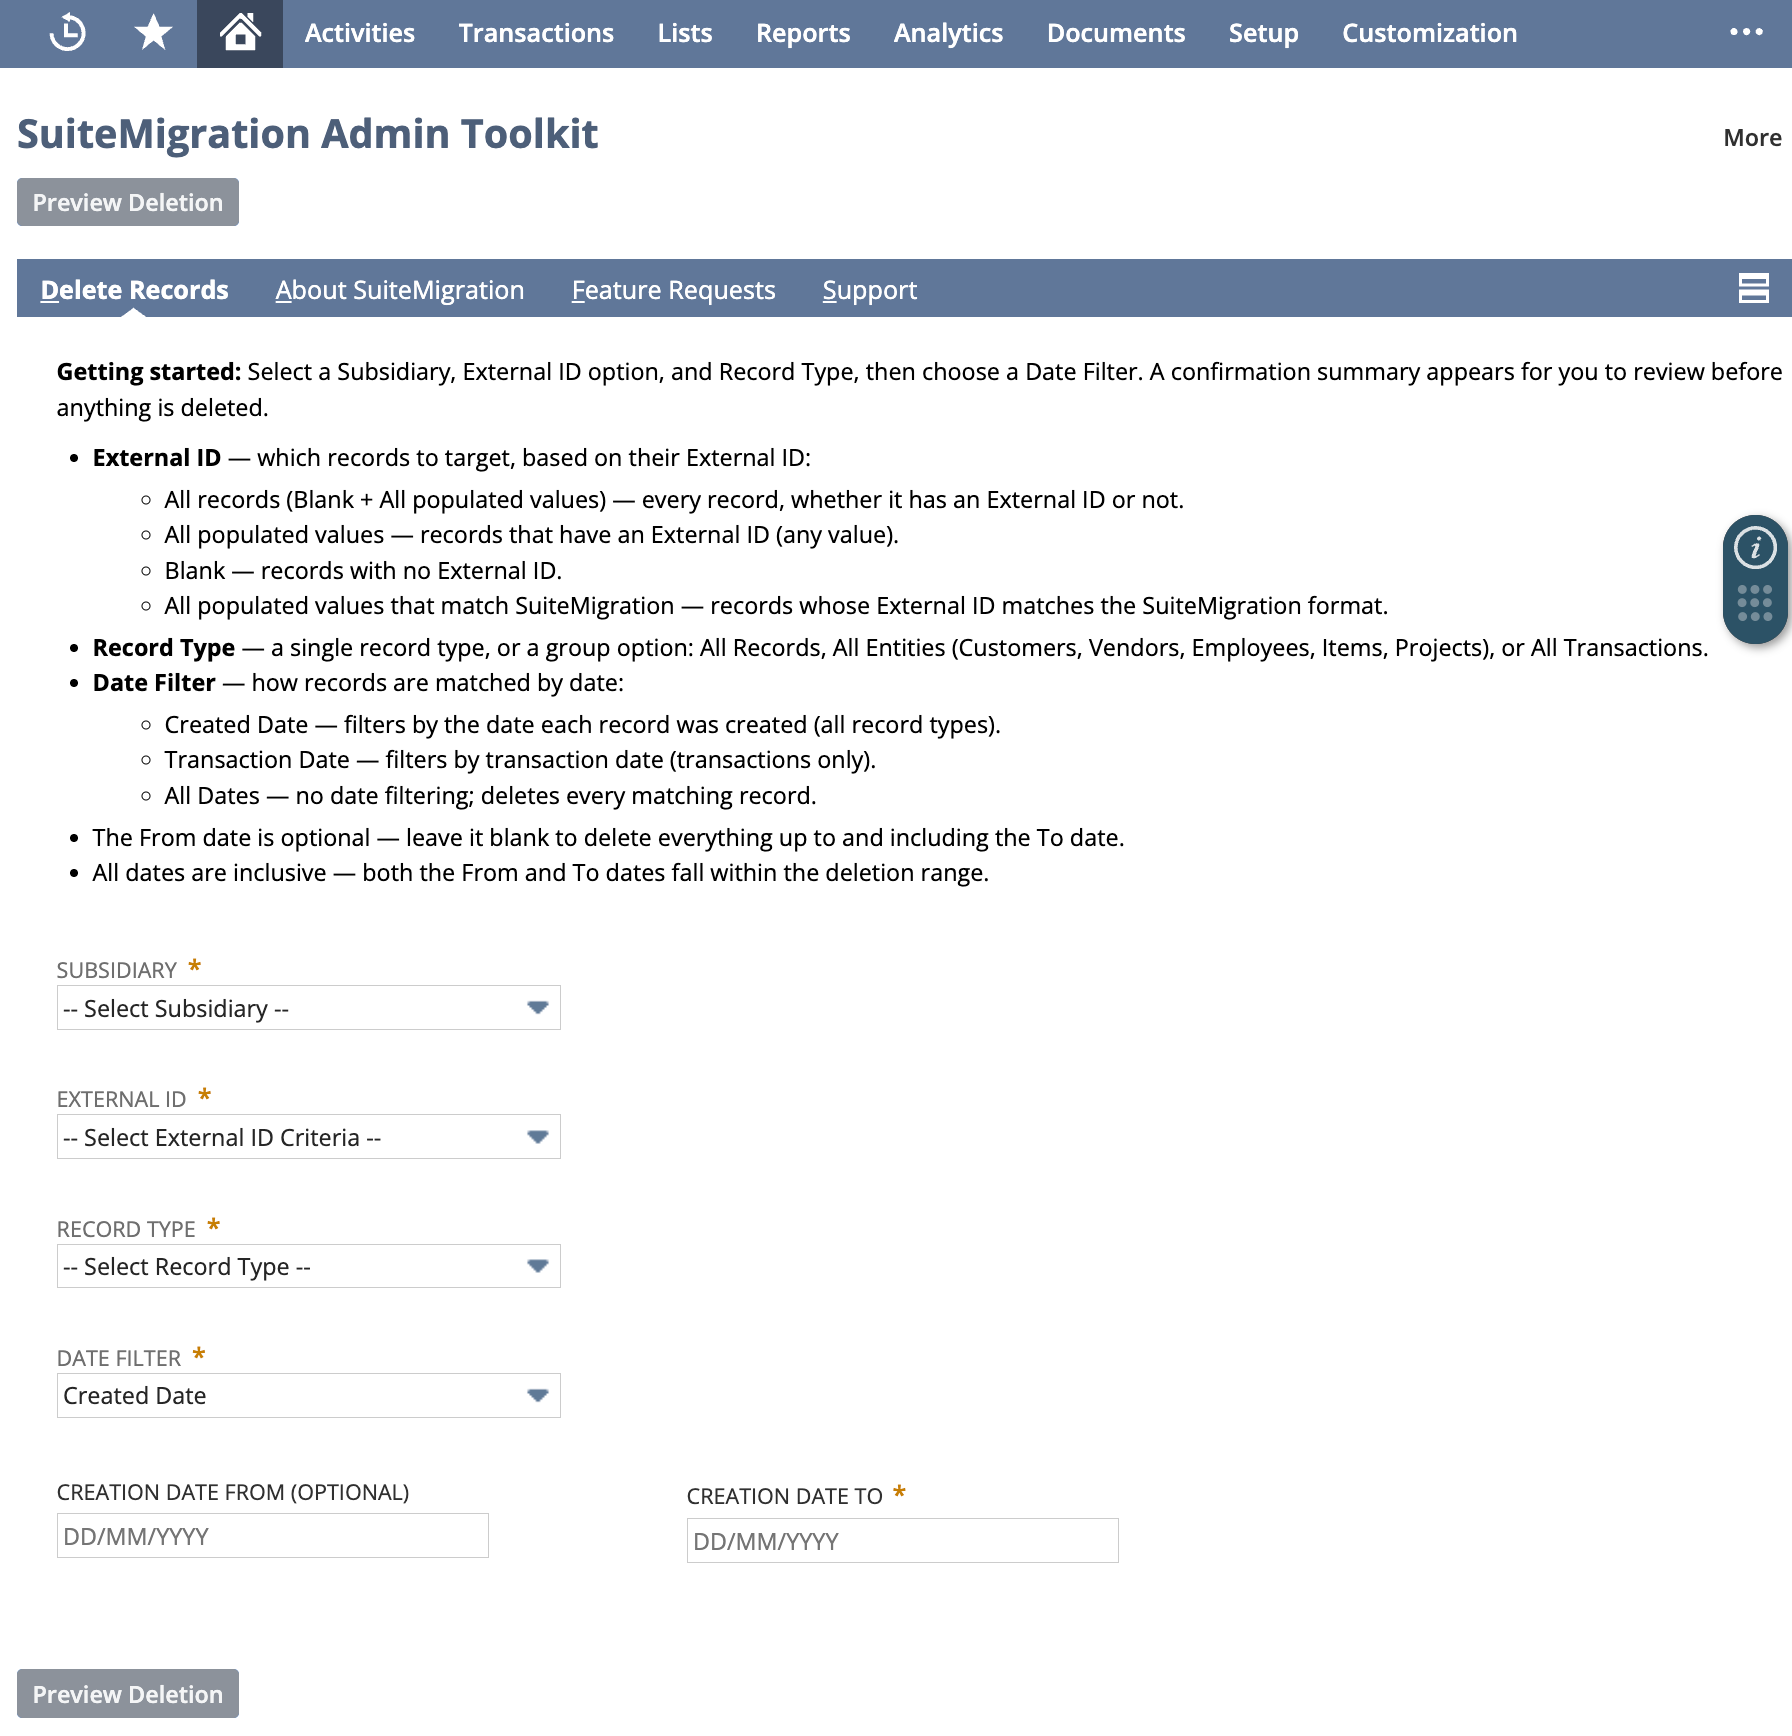
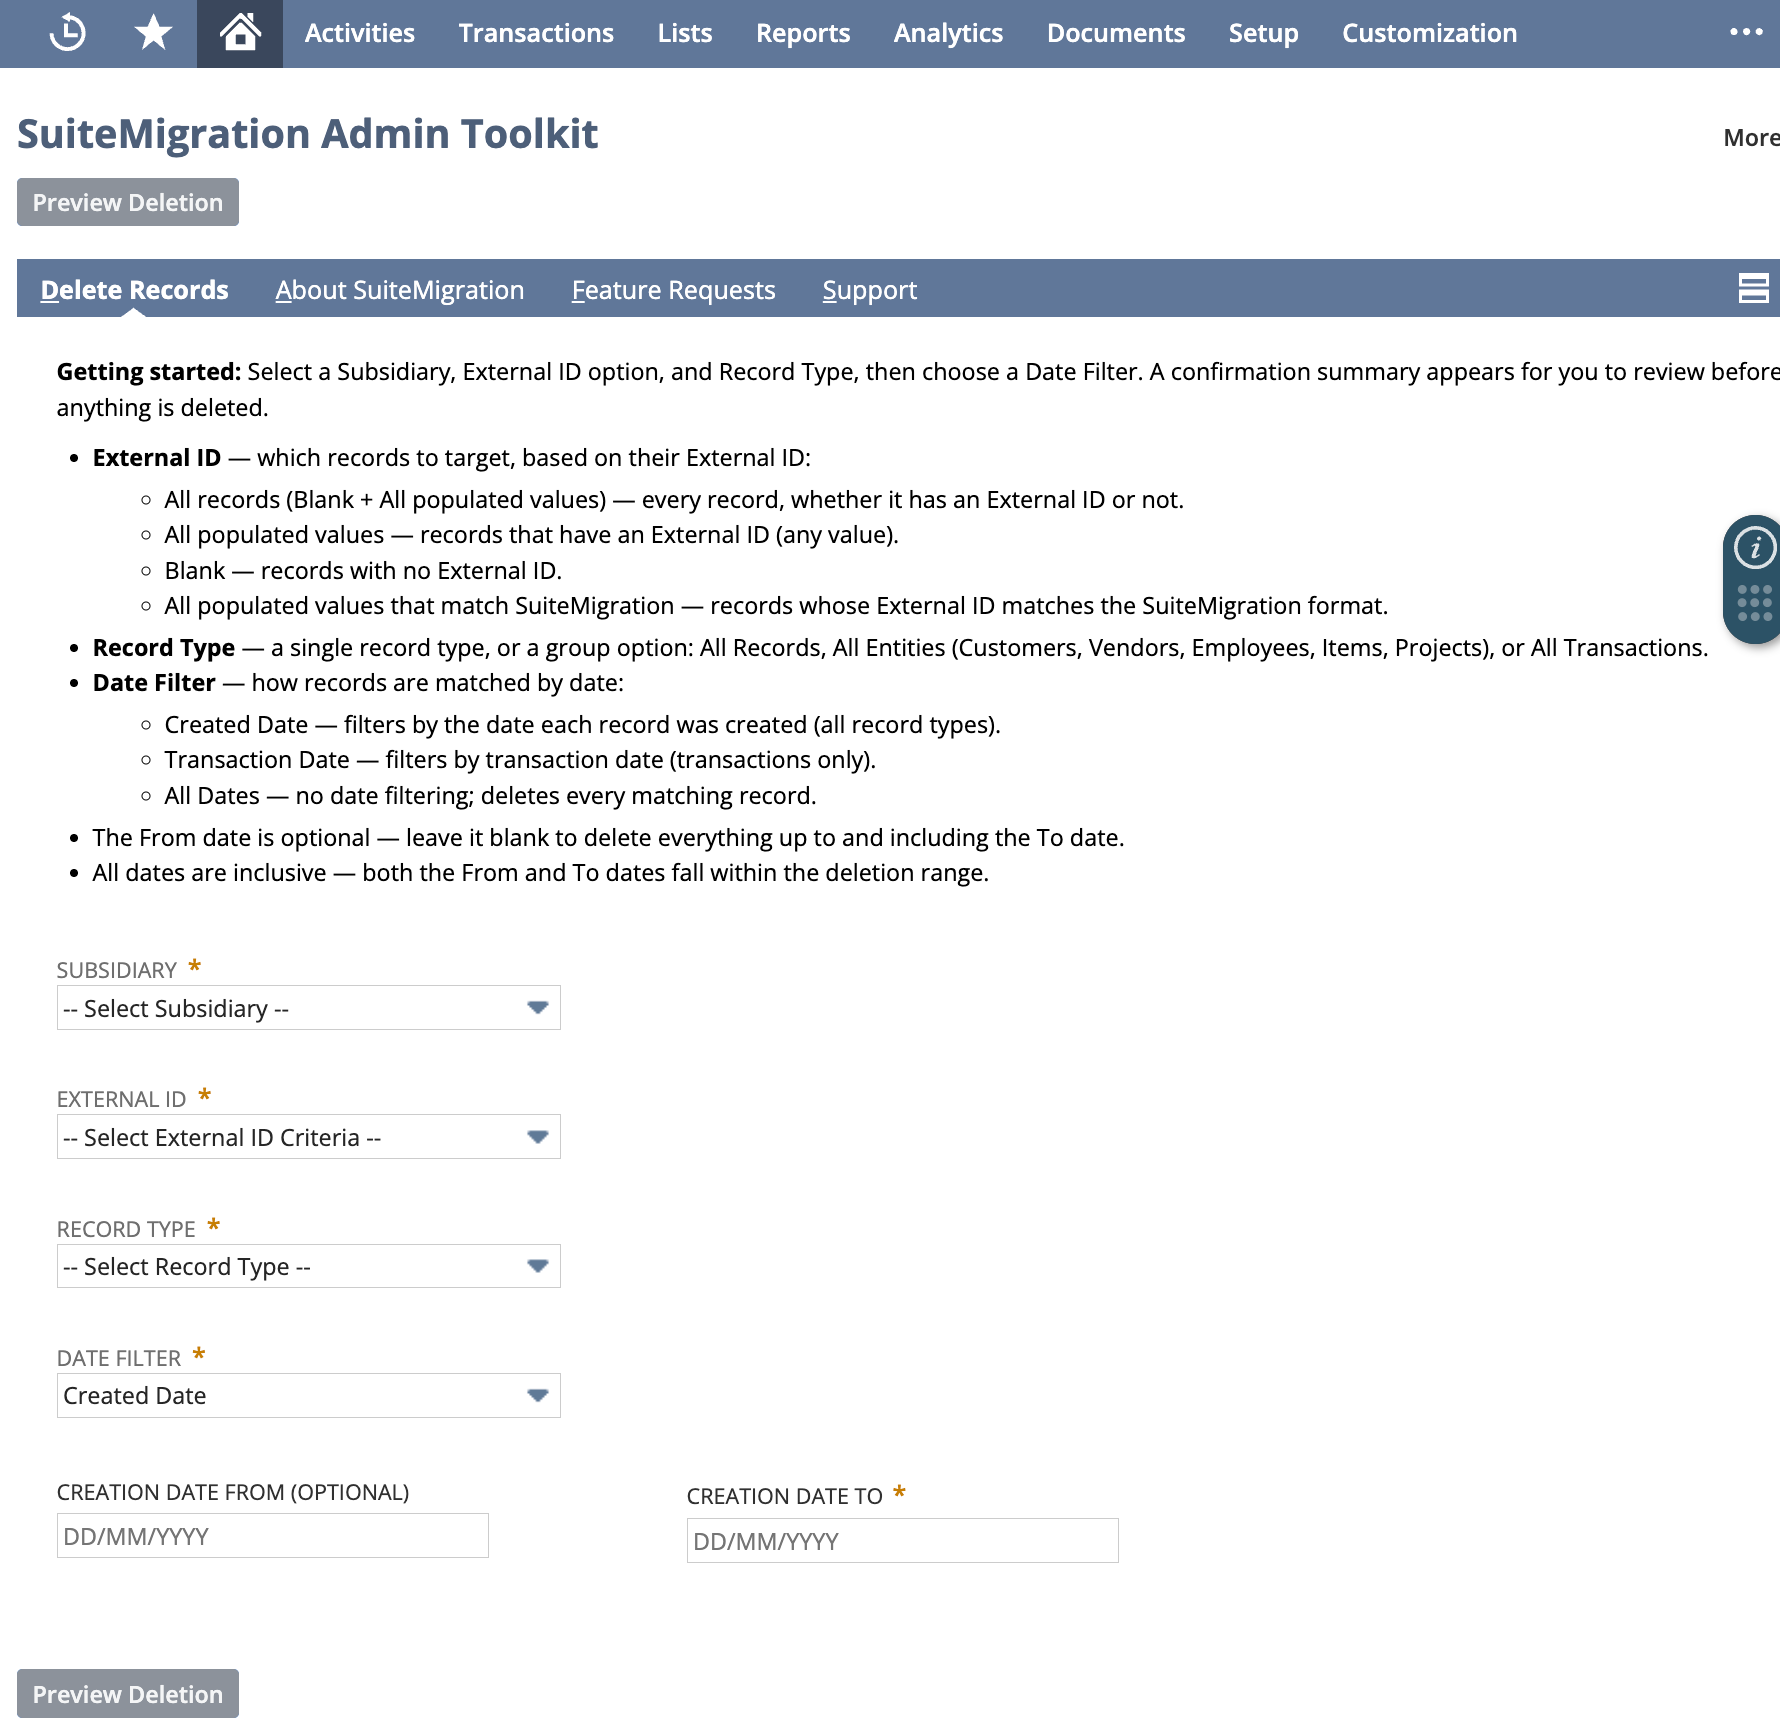
Fix README screenshot sizing and cropping
- Crop deletion-complete.png to remove the empty gray background below the card
- Trim NetSuite scrollbar chrome from main-screen.png
- Render screenshots at 65% width with centered HTML img tags so they no longer stretch to the full README width

diff --git a/README.md b/README.md
@@ -22,16 +22,22 @@ Built and published by [SuiteMigration](https://suitemigration.com).
 
 Select a subsidiary, an External ID option, a record type and a date filter:
 
-![The SuiteMigration Admin Toolkit main screen](docs/images/main-screen.png)
+<p align="center">
+  <img src="docs/images/main-screen.png" width="65%" alt="The SuiteMigration Admin Toolkit main screen">
+</p>
 
 Nothing is deleted until you confirm. The summary spells out exactly what will be
 removed:
 
-![The Confirm Deletion dialog](docs/images/confirm-deletion.png)
+<p align="center">
+  <img src="docs/images/confirm-deletion.png" width="65%" alt="The Confirm Deletion dialog">
+</p>
 
 Progress is reported as the deletion runs, with deleted and failed totals:
 
-![A completed deletion showing 17 customers deleted and 0 failed](docs/images/deletion-complete.png)
+<p align="center">
+  <img src="docs/images/deletion-complete.png" width="65%" alt="A completed deletion showing the total deleted and failed counts">
+</p>
 
 ---
 
